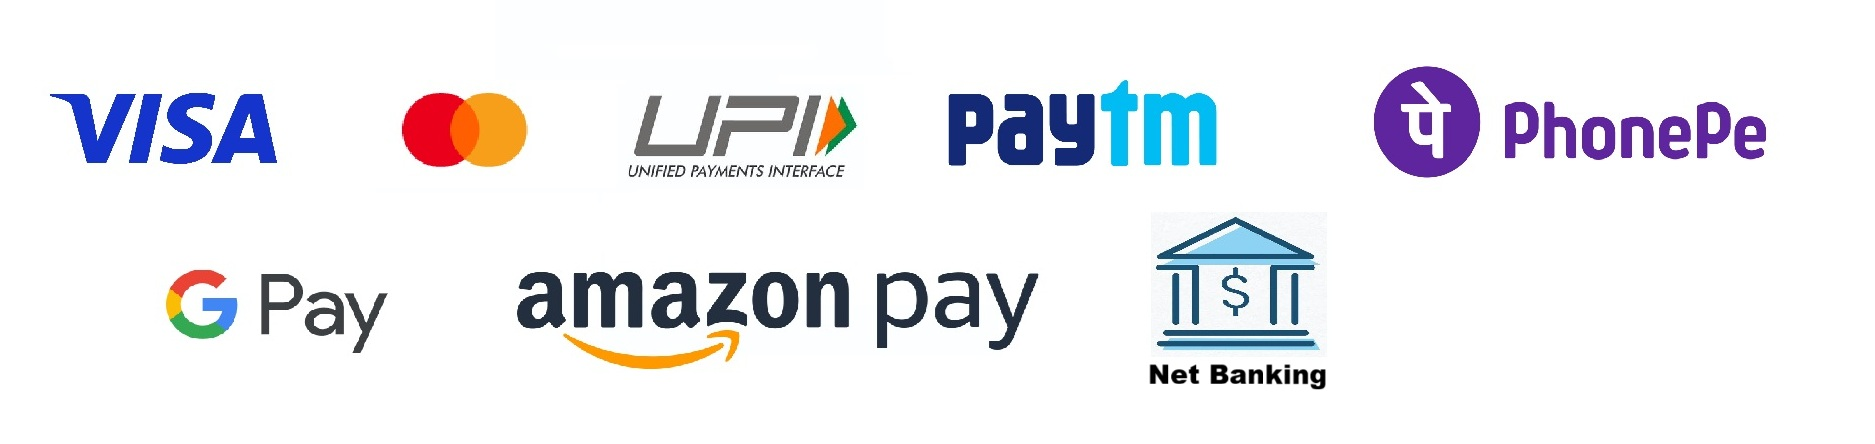
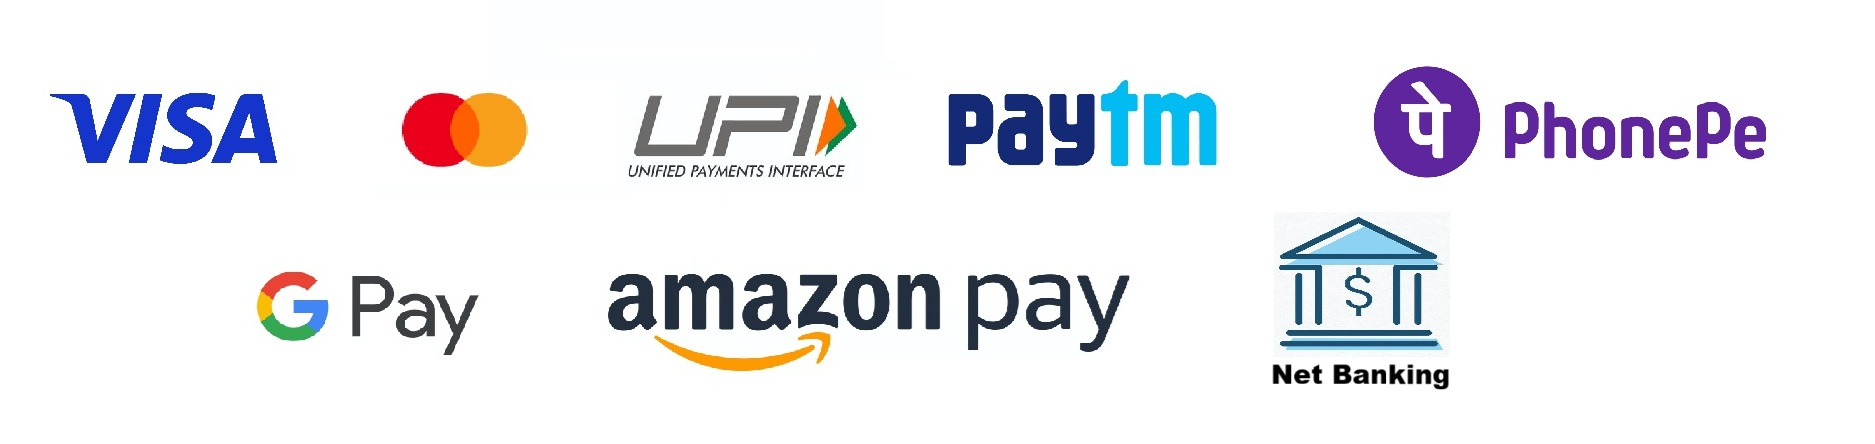
see

Changed region(s): [[0.0619, 0.4977, 0.7733, 0.8491], [0.5877, 0.8198, 0.7733, 0.8784]]

diff --git a/public/css/detailPage.css b/public/css/detailPage.css
@@ -146,15 +146,15 @@ body {
 
 /* Assurance badges */
 .assurance-wrap {
-  margin: 10px 16px 14px;
+  margin: 1vh 4vw;
   display: grid;
   grid-template-columns: repeat(3, minmax(0, 1fr));
   gap: 10px;
   margin-top: 1vh;
+  border-bottom: 1px solid #454545bc;
 }
 
 .assurance-item {
-  border: 1px solid #323a40;
   margin-top: 1vh;
   padding: 12px 8px;
   border-radius: 24px;
@@ -167,12 +167,12 @@ body {
 }
 
 .assurance-item i {
-  font-size: 1.25rem;
+  font-size: 1.5rem;
   color: #597fd1;
 }
 
 .assurance-item span {
-  font-size: 1rem;
+  font-size: 0.8rem;
   color: #323a40;
   font-family: "Alice", serif;
 }
@@ -181,17 +181,15 @@ body {
 
 /* Specs section */
 .specs-section {
- 
-   margin-top: 3vh;
+  margin-top: 3vh;
 }
 .specs-title {
-  font-size: 2,5vh;
+  font-size: 2.8vh;
   margin-bottom: 8px;
   color: #192f49;
-   font-family: "Arsenal", sans-serif;
-   letter-spacing: 1px;
-   margin-left: 4vw;
-   
+  font-family: "Arsenal", sans-serif;
+  letter-spacing: 1px;
+  margin-left: 4vw;
 }
 
 .specs-tiles {
@@ -207,7 +205,6 @@ body {
   border: 1px solid #555;
   border-radius: 12px;
   overflow: hidden;
-  
 }
 
 .spec-head {
@@ -271,15 +268,14 @@ body {
   font-family: "Alice", serif;
 }
 
-
 /* test */
 /* ---------- See More Button ---------- */
 .see-more-btn {
   display: none;
   margin: 12px auto 0;
   padding: 1vh 6vw;
-  background-color: #1d4375;        /* dark button background */
-  color: #E2E3E2;                   /* light text color */
+  background-color: #1d4375; /* dark button background */
+  color: #e2e3e2; /* light text color */
   font-family: "Alice", serif;
   font-weight: 300;
   letter-spacing: 1px;
@@ -292,14 +288,14 @@ body {
 }
 
 .see-more-btn:hover {
-  background-color: #1d4375;        /* slightly lighter on hover */
+  background-color: #1d4375; /* slightly lighter on hover */
   transform: scale(1.05);
 }
 /* ---------- Section-wide Gradient Overlay ---------- */
 .specs-section {
   position: relative;
   overflow: hidden;
-  
+
   transition: opacity 0.3s ease;
 }
 
@@ -311,7 +307,12 @@ body {
   left: 0;
   width: 100%;
   height: 40%;
-  background: linear-gradient(to top, rgba(0, 0, 0, 0.3), rgba(0, 0, 0, 0.05), transparent);
+  background: linear-gradient(
+    to top,
+    rgba(0, 0, 0, 0.3),
+    rgba(0, 0, 0, 0.05),
+    transparent
+  );
   opacity: 0;
   transition: opacity 0.4s ease;
   pointer-events: none; /* allows clicks to pass through */
@@ -321,4 +322,54 @@ body {
 /* when collapsed — show overlay */
 .specs-section.collapsed::after {
   opacity: 1;
+}
+
+.delivery-text {
+  display: flex;
+  gap: 5vw;
+  
+  margin-top: 1.7vh;
+  font-size: 2.1vh;
+  color: #323a40;
+  font-family: "Alice", serif;
+}
+.delivery-text i {
+ 
+
+  font-size: 2.5vh;
+  color: #323a40;
+  
+}
+
+.delivery-icon h2 {
+  color: #192f49;
+  font-family: "Arsenal", sans-serif;
+  font-size: 2.6vh;
+  letter-spacing: 1px;
+  
+}
+
+.delivery-section{
+margin: 1vh 4vw;
+ 
+  
+  padding-bottom: 2vh;
+  
+  border-bottom: 1px solid #454545bc;
+}
+.payment{
+  margin: 1vh 4vw;
+  border-bottom: 1px solid #454545;
+  padding-bottom: 0.5vh;
+}
+.payment img{
+  width: 92vw;
+}
+ 
+.payment h2{
+  color: #192f49;
+  font-family: "Arsenal", 
+  sans-serif;
+  font-size: 2.6vh;
+  letter-spacing: 1px;
 }
